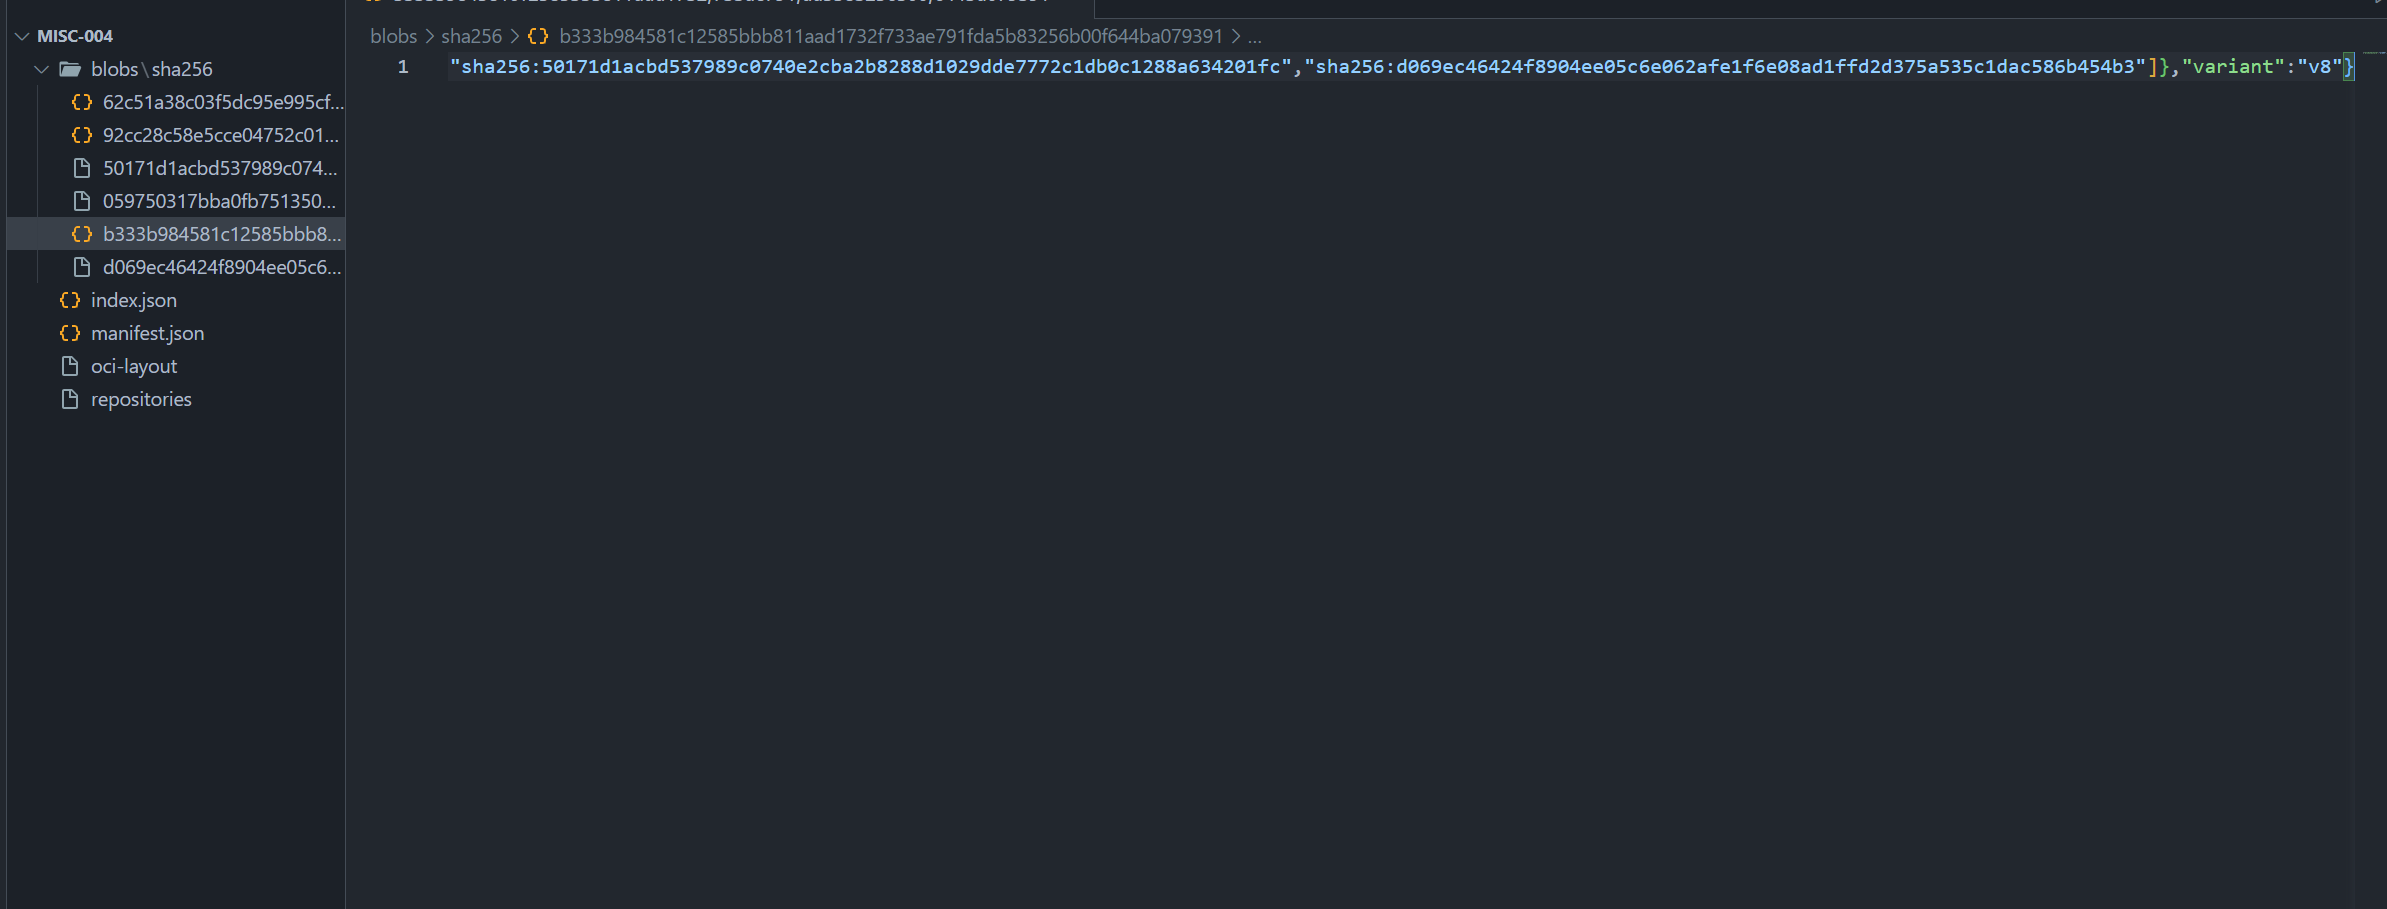
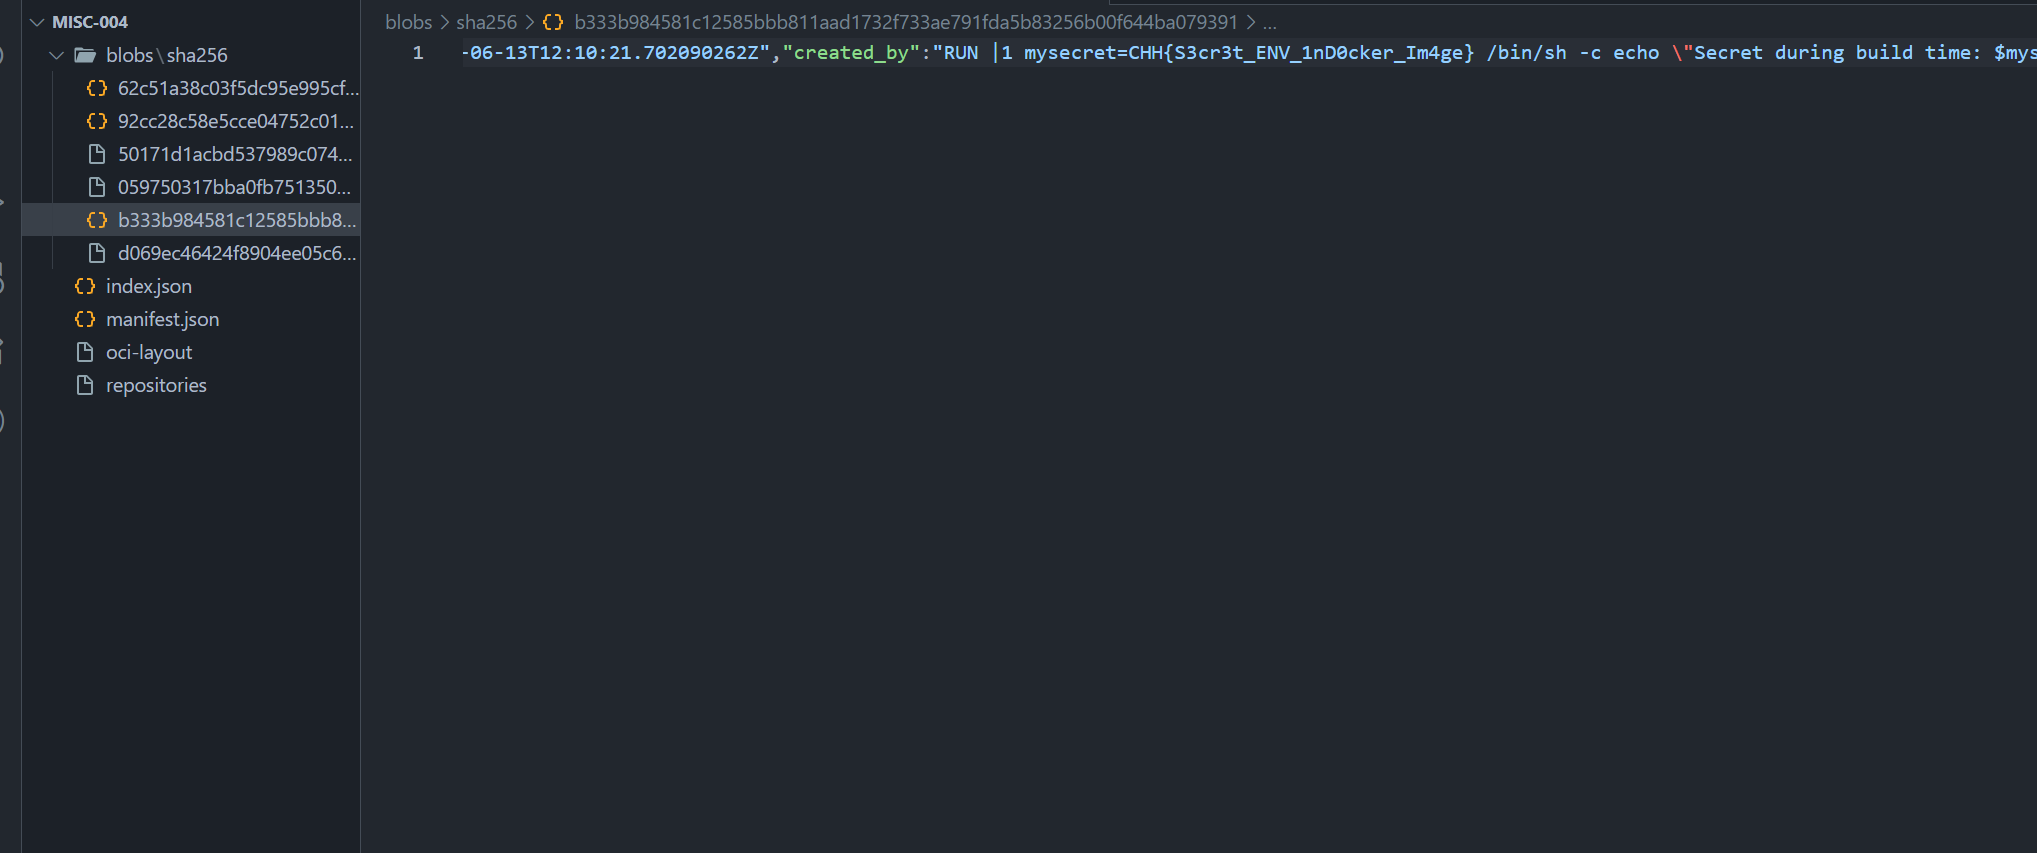
add

Changed region(s): [[0.1546, 0.0, 1.0, 0.0914], [0.0, 0.0, 0.1856, 0.4572], [0.9897, 0.0, 1.0, 0.0305]]

diff --git a/src/content/posts/CookieArenaCTFWeb.md b/src/content/posts/CookieArenaCTFWeb.md
@@ -874,3 +874,5 @@ and done.
 `flag` will be found in `mysecret` in the provided files
 
 ![image](./image/cookiearenactf/44.png)
+
+---
